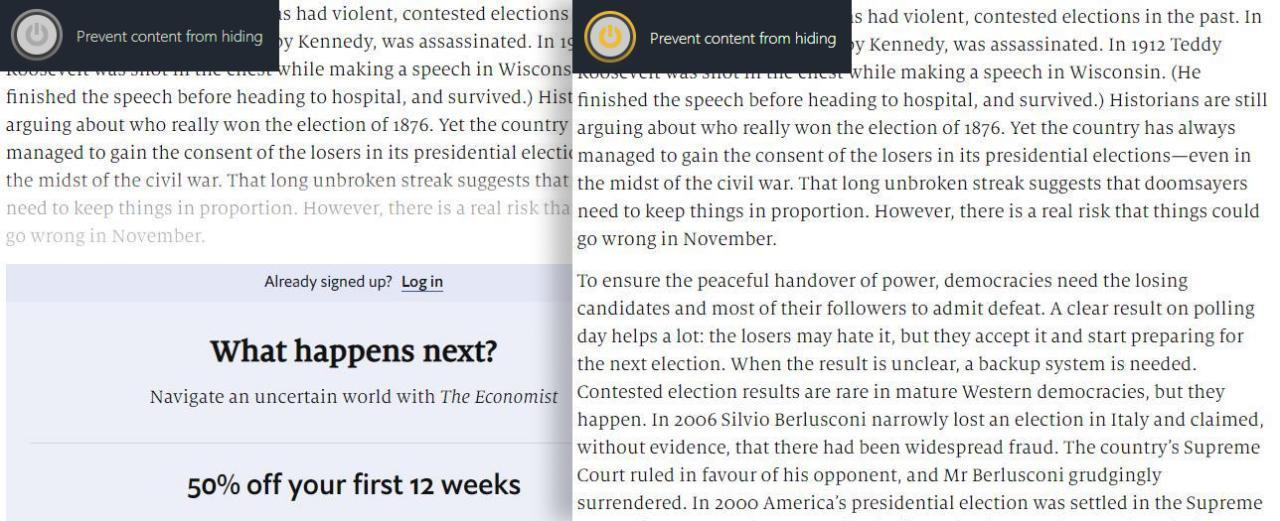
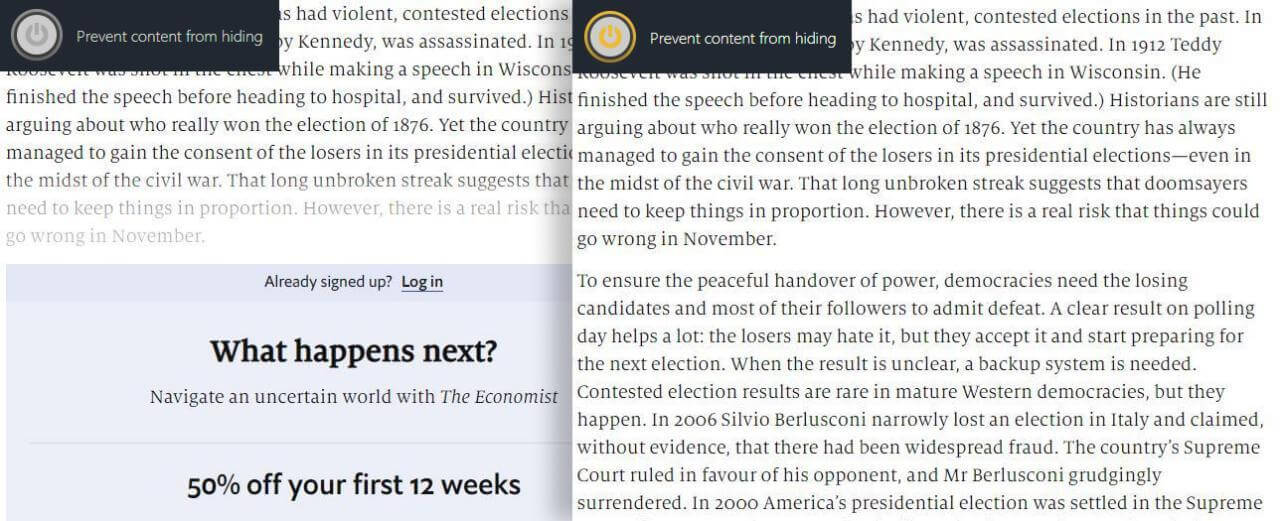
upd link

diff --git a/src/static/updates.js b/src/static/updates.js
@@ -87,7 +87,7 @@ const updates = {
 
         <p class="article__text">1. I added <strong class="article__col-4">a new (experimental) feature</strong>. It's supposed to <strong class="article__col-4">prevent paid content from hiding</strong>. You know, when you open a website (usually some cool newspaper), see the article you wanted to read, and then puf... It's reduced, you can see only a few strings and note that you should pay money to see more. Examples: <a class="link" target="_blank" rel="noreferrer" href="https://www.economist.com/leaders/2020/09/03/americas-ugly-election">The Economist</a>, <a class="link" target="_blank" rel="noreferrer" href="https://www.reviewjournal.com/local/education/ccsd-public-comment-format-proves-puzzling-in-covid-era-2113032/">Las Vegas Review-Journal</a>. Thanks to Whatatay T, I've got an idea - to interfere it. So now you can enable this feature <a class="link optPage" href="#">at the options page</a>. After you turn it on, it will work when you <strong class="article__col-4">activate Hard or Easy mode</strong> and load the needed page (important: <strong class="article__col-4">mode should be active before content removed</strong>). I have only a few examples of websites like I described above so if you sent me some more, I'd improve this feature (important: <strong class="article__col-4">it's not possible to make it work on every website</strong>).</p>
 
-        <p class="article__text">2. <strong class="article__col-4">The statistics.</strong> Just a little bit of fun for you. Noone <strong class="article__col-4">except you</strong> (even me) is able to see it. Activated by default. You can disable it <a class="link optPage" href="#">at the options page</a>. After you add some, try clicking it :) <a href="https://twitter.com/RomanistHere"  rel="noreferrer" target="_blank" class="link">My stats during the development</a></p>
+        <p class="article__text">2. <strong class="article__col-4">The statistics.</strong> Just a little bit of fun for you. Noone <strong class="article__col-4">except you</strong> (even me) is able to see it. Activated by default. You can disable it <a class="link optPage" href="#">at the options page</a>. After you add some, try clicking it :) <a href="https://twitter.com/RomanistHere/status/1303665530209959941/photo/1"  rel="noreferrer" target="_blank" class="link">My stats during the development</a></p>
 
         <div class="article__img_wr">
             <img
